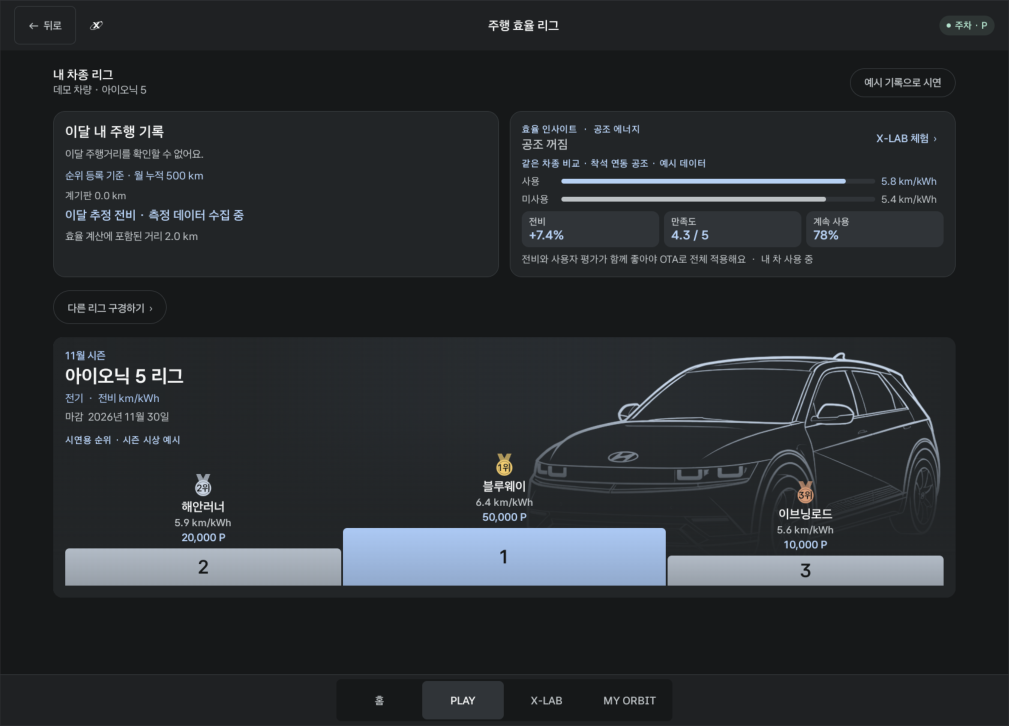
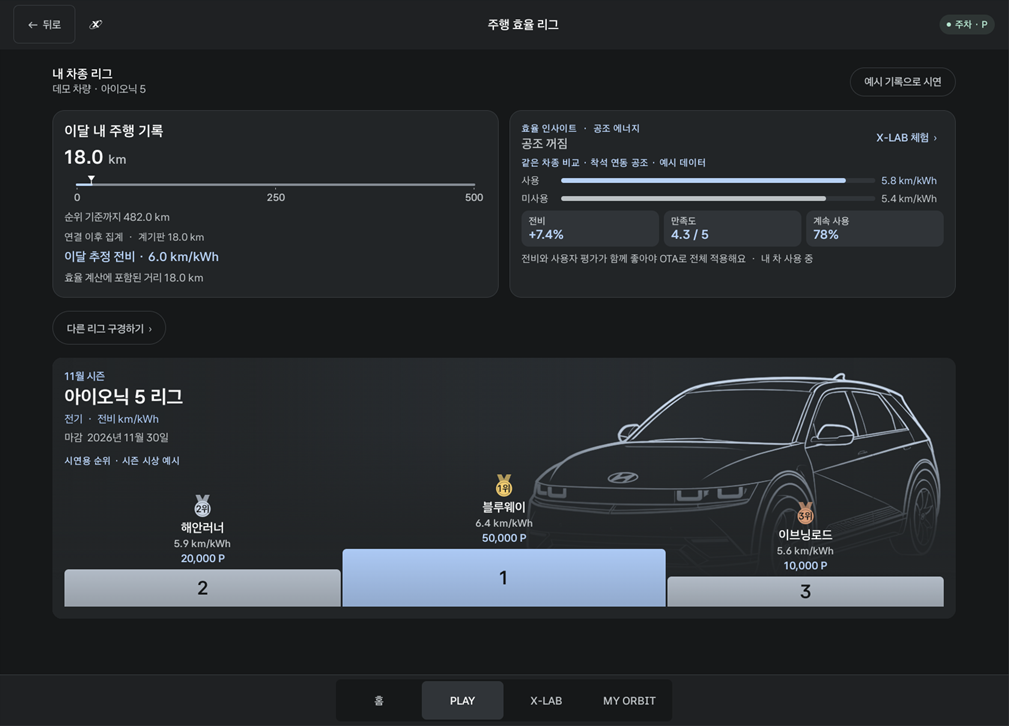
Retake README screenshots from a reset app with one console-injected drive

diff --git a/README.md b/README.md
@@ -45,15 +45,15 @@
 
 ## 화면 미리보기
 
-Pleos Connect v2.1.0 에뮬레이터에서 현재 빌드로 캡처했습니다. 앱 화면은 앱 영역만 잘랐고, 주행 중 화면 세 장은 전체 화면입니다.
+Pleos Connect v2.1.0 에뮬레이터에서 현재 빌드로 캡처했습니다. 기록을 초기화한 뒤 Virtual Console로 주행 한 번(18 km, 배터리 60 → 57 kWh)을 넣어 리그와 드라이브 값을 만들었습니다. 앱 화면은 앱 영역만 잘랐고, 내비 화면은 전체 화면입니다.
 
 | 홈 | 주행 효율 리그 |
 | --- | --- |
 | ![홈](docs/screenshots/01_home.png) | ![리그](docs/screenshots/02_league.png) |
-| 슬로건과 인사말, PLAY·X-LAB 진입 | 이달 주행 기록, 빈 좌석 공조 인사이트, 같은 차종 비교(예시), 순위 |
+| 슬로건과 인사말, PLAY·X-LAB 진입, 포인트 | 이달 주행 18 km·추정 전비 6.0 km/kWh, 공조 인사이트와 같은 차종 비교(예시), 순위(예시) |
 | **드라이브** | **X-LAB** |
 | ![드라이브](docs/screenshots/04_drive.png) | ![X-LAB](docs/screenshots/08_xlab_experiments.png) |
-| 진행 중 카드, 드라이브 리포트, 나의 드라이브 기록 | X-LAB → 실험 목록: 실험 6개의 단계(발견 → 시험 → 배포 → 재확인)와 연결된 PLAY, 응답 수 |
+| 드라이브 리포트(18 km · 3 kWh · 6.0 km/kWh), X-LAB 실험 질문, 나의 드라이브 기록 | X-LAB → 실험 목록: 실험 6개의 단계(발견 → 시험 → 배포 → 재확인)와 연결된 PLAY, 응답 수 |
 | **착석 연동 공조** | **OTA 평가 (실제 도어 제어)** |
 | ![공조](docs/screenshots/09_climate.png) | ![OTA](docs/screenshots/10_ota.png) |
 | 빈 차량을 감지해 순정 공조를 끄고 "에너지 절약" 표시 | Vehicle SDK로 네 문을 잠그고 풀며 버튼을 평가 |
